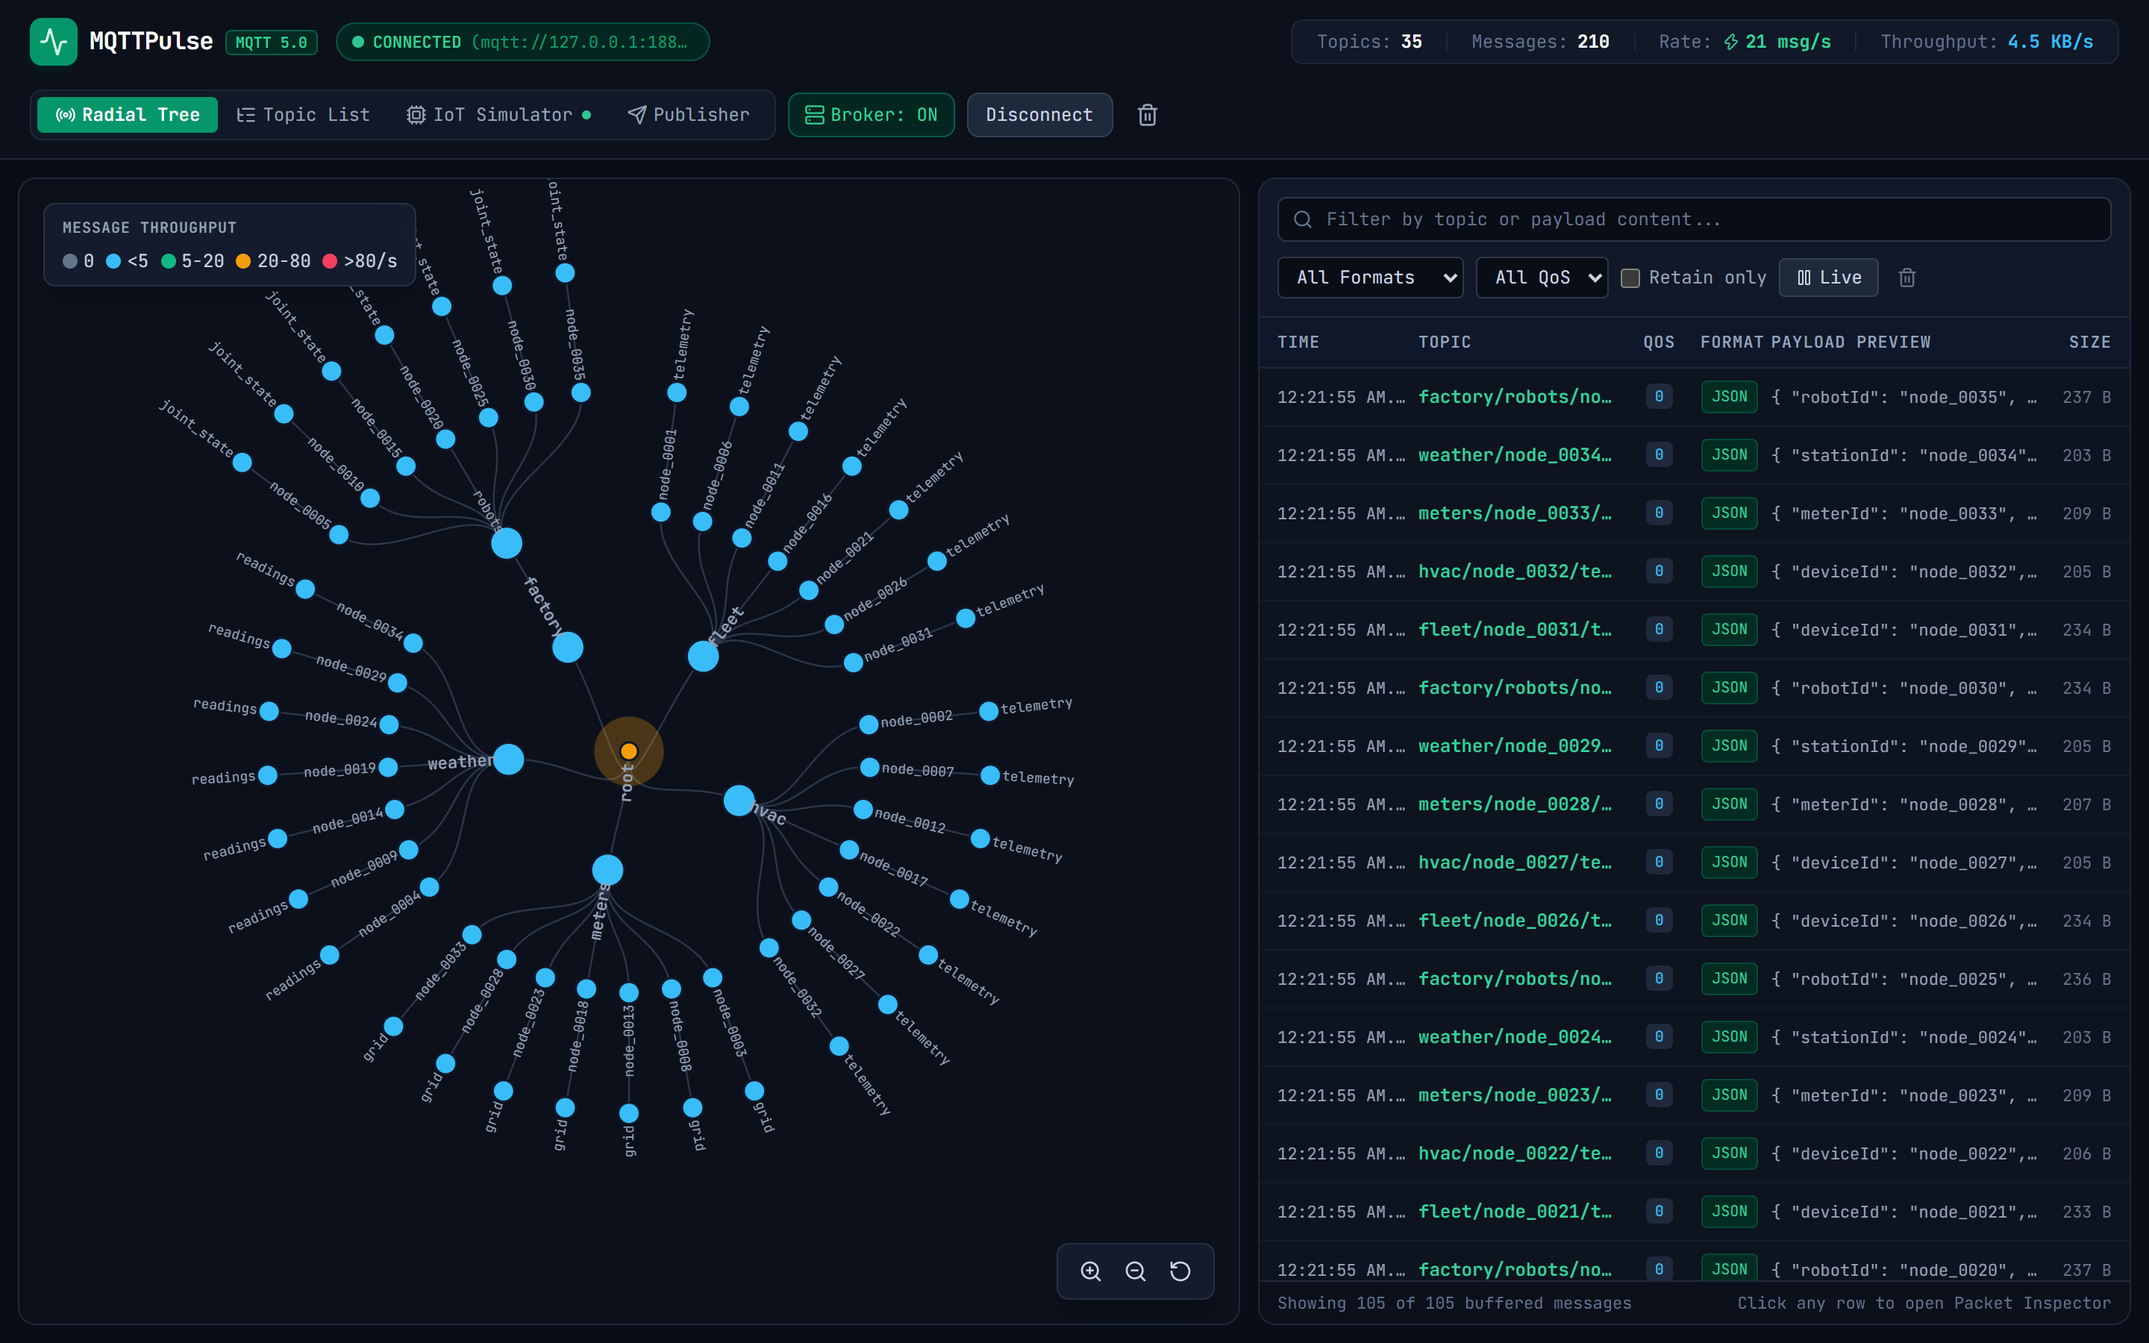
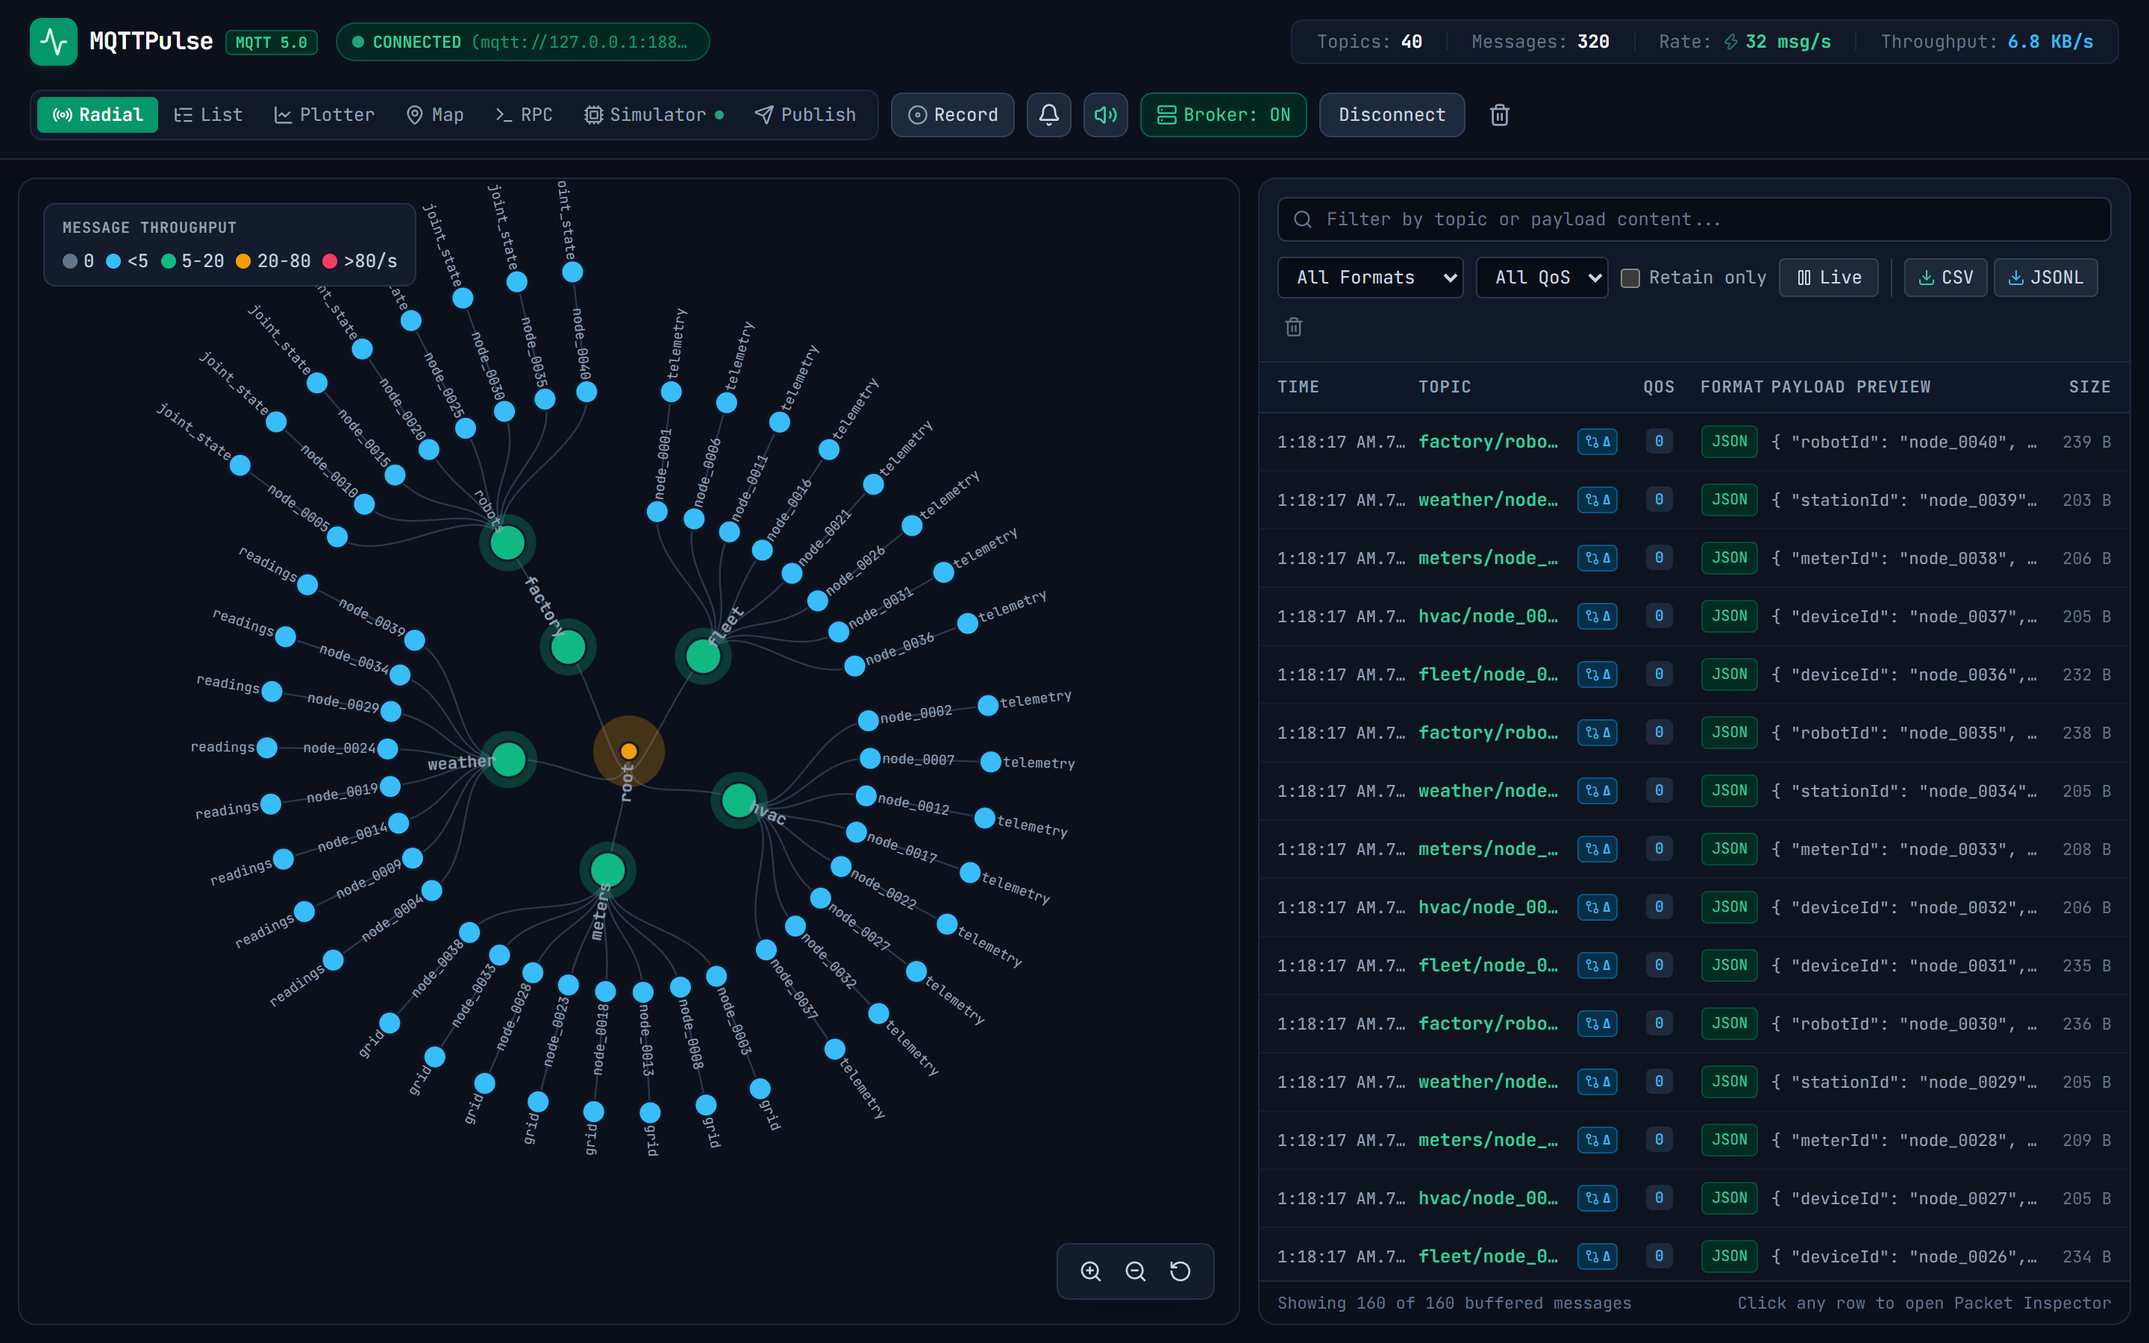
feat(ui): add mobile responsiveness and high-fidelity screenshots with animated demo gif

diff --git a/scripts/capture_assets.js b/scripts/capture_assets.js
@@ -31,9 +31,9 @@ async function run() {
   });
   await state.mqttClient.subscribe('#', 0);
 
-  // Start simulator with 35 devices
+  // Start simulator with 40 devices
   state.simulator.updateConfig({
-    fleetSize: 35,
+    fleetSize: 40,
     profile: 'mixed',
     format: 'json',
     intervalMs: 800
@@ -41,8 +41,8 @@ async function run() {
   state.simulator.start();
 
   console.log('[ASSETS] Simulator emitting live telemetry...');
-  // Let the simulator populate some messages and trie nodes
-  await new Promise((r) => setTimeout(r, 2500));
+  // Let the simulator populate messages, trie nodes, and geo markers
+  await new Promise((r) => setTimeout(r, 3000));
 
   console.log('[ASSETS] Launching Puppeteer...');
   const browser = await puppeteer.launch({
@@ -57,91 +57,95 @@ async function run() {
   // Wait 1.5 seconds for D3 tree to render and telemetry stream to populate
   await new Promise((r) => setTimeout(r, 1500));
 
+  let frameCount = 0;
+  const captureFrames = async (numFrames = 6, intervalMs = 250) => {
+    for (let i = 0; i < numFrames; i++) {
+      const framePath = path.join(framesDir, `frame_${String(frameCount++).padStart(4, '0')}.png`);
+      await page.screenshot({ path: framePath });
+      await new Promise((r) => setTimeout(r, intervalMs));
+    }
+  };
+
+  // Helper to click tab by title/label
+  const clickTab = async (tabName) => {
+    await page.evaluate((name) => {
+      const buttons = Array.from(document.querySelectorAll('header button'));
+      const btn = buttons.find((b) => b.textContent && b.textContent.toLowerCase().includes(name.toLowerCase()));
+      if (btn) btn.click();
+    }, tabName);
+    await new Promise((r) => setTimeout(r, 800));
+  };
+
+  // 1. Screenshot 1: Radial Tree view
   console.log('[ASSETS] Capturing screenshot 1: Radial Tree view...');
   await page.screenshot({ path: path.join(docsImagesDir, 'mqttpulse-1.png') });
+  await captureFrames(8, 200);
 
-  // Record a sequence of frames for GIF
-  console.log('[ASSETS] Recording frames for animated GIF...');
-  for (let i = 0; i < 15; i++) {
-    const framePath = path.join(framesDir, `frame_${String(i).padStart(3, '0')}.png`);
-    await page.screenshot({ path: framePath });
-    await new Promise((r) => setTimeout(r, 200));
-  }
+  // 2. Switch to Plotter tab
+  console.log('[ASSETS] Switching to Telemetry Plotter tab...');
+  await clickTab('Plotter');
+  await new Promise((r) => setTimeout(r, 1200));
+  console.log('[ASSETS] Capturing screenshot 2: Live Telemetry Plotter...');
+  await page.screenshot({ path: path.join(docsImagesDir, 'mqttpulse-2.png') });
+  await captureFrames(8, 200);
 
-  // Click on the first message row to open Packet Inspector drawer
-  console.log('[ASSETS] Opening Packet Inspector...');
+  // 3. Switch to Map tab
+  console.log('[ASSETS] Switching to Fleet Geolocation Map tab...');
+  await clickTab('Map');
+  await new Promise((r) => setTimeout(r, 1000));
+  console.log('[ASSETS] Capturing screenshot 3: Fleet Geolocation Map...');
+  await page.screenshot({ path: path.join(docsImagesDir, 'mqttpulse-3.png') });
+  await captureFrames(8, 200);
+
+  // 4. Click a message row in the table to open Packet Inspector drawer with Diff
+  console.log('[ASSETS] Switching back to Radial and opening Packet Inspector...');
+  await clickTab('Radial');
   const rows = await page.$$('.cursor-pointer');
   if (rows.length > 5) {
-    // Click a table row
     await rows[rows.length - 2].click();
     await new Promise((r) => setTimeout(r, 800));
 
-    // Click Hex / ASCII Dump tab inside inspector
-    const hexTab = await page.evaluate(() => {
+    // Click Payload Diff tab inside inspector
+    await page.evaluate(() => {
       const buttons = Array.from(document.querySelectorAll('button'));
-      const btn = buttons.find((b) => b.textContent && b.textContent.includes('Hex / ASCII'));
-      if (btn) {
-        btn.click();
-        return true;
-      }
-      return false;
+      const btn = buttons.find((b) => b.textContent && b.textContent.includes('Diff'));
+      if (btn) btn.click();
     });
-
     await new Promise((r) => setTimeout(r, 600));
-    console.log('[ASSETS] Capturing screenshot 2: Packet Inspector Hex Dump...');
-    await page.screenshot({ path: path.join(docsImagesDir, 'mqttpulse-2.png') });
 
-    for (let i = 15; i < 22; i++) {
-      const framePath = path.join(framesDir, `frame_${String(i).padStart(3, '0')}.png`);
-      await page.screenshot({ path: framePath });
-      await new Promise((r) => setTimeout(r, 200));
-    }
+    console.log('[ASSETS] Capturing screenshot 4: Packet Inspector Payload Diff...');
+    await page.screenshot({ path: path.join(docsImagesDir, 'mqttpulse-4.png') });
+    await captureFrames(6, 250);
+
+    // Close inspector
+    await page.evaluate(() => {
+      const closeBtn = document.querySelector('button[title*="Close"]');
+      if (closeBtn) closeBtn.click();
+    });
+    await new Promise((r) => setTimeout(r, 500));
   }
 
-  // Switch to IoT Simulator tab
-  console.log('[ASSETS] Switching to IoT Simulator tab...');
-  await page.evaluate(() => {
-    const buttons = Array.from(document.querySelectorAll('button'));
-    const btn = buttons.find((b) => b.textContent && b.textContent.includes('IoT Simulator'));
-    if (btn) btn.click();
-  });
+  // 5. Switch to RPC tab
+  console.log('[ASSETS] Switching to RPC tab...');
+  await clickTab('RPC');
   await new Promise((r) => setTimeout(r, 800));
-
-  console.log('[ASSETS] Capturing screenshot 3: IoT Fleet Simulator & Chaos panel...');
-  await page.screenshot({ path: path.join(docsImagesDir, 'mqttpulse-3.png') });
-
-  for (let i = 22; i < 30; i++) {
-    const framePath = path.join(framesDir, `frame_${String(i).padStart(3, '0')}.png`);
-    await page.screenshot({ path: framePath });
-    await new Promise((r) => setTimeout(r, 200));
-  }
-
-  // Switch to Topic List indented view
-  console.log('[ASSETS] Switching to Topic List tab...');
-  await page.evaluate(() => {
-    const buttons = Array.from(document.querySelectorAll('button'));
-    const btn = buttons.find((b) => b.textContent && b.textContent.includes('Topic List'));
-    if (btn) btn.click();
-  });
-  await new Promise((r) => setTimeout(r, 800));
-
-  console.log('[ASSETS] Capturing screenshot 4: Topic List view...');
-  await page.screenshot({ path: path.join(docsImagesDir, 'mqttpulse-4.png') });
+  console.log('[ASSETS] Capturing screenshot 5: MQTT 5.0 RPC Console...');
+  await page.screenshot({ path: path.join(docsImagesDir, 'mqttpulse-5.png') });
+  await captureFrames(6, 250);
 
   await browser.close();
   await server.stop();
 
-  console.log('[ASSETS] Compiling animated demo GIF with ffmpeg...');
+  console.log(`[ASSETS] Compiling animated demo GIF from ${frameCount} frames with ffmpeg...`);
   const gifPath = path.join(docsImagesDir, 'mqttpulse_demo.gif');
   try {
-    // Generate palette and high quality gif with palettegen and paletteuse
     const palettePath = path.join(framesDir, 'palette.png');
-    execSync(`ffmpeg -y -i "${framesDir}/frame_%03d.png" -vf "fps=6,scale=960:-1:flags=lanczos,palettegen" "${palettePath}"`, { stdio: 'inherit' });
-    execSync(`ffmpeg -y -i "${framesDir}/frame_%03d.png" -i "${palettePath}" -lavfi "fps=6,scale=960:-1:flags=lanczos [x]; [x][1:v] paletteuse" "${gifPath}"`, { stdio: 'inherit' });
+    execSync(`ffmpeg -y -i "${framesDir}/frame_%04d.png" -vf "fps=5,scale=960:-1:flags=lanczos,palettegen" "${palettePath}"`, { stdio: 'inherit' });
+    execSync(`ffmpeg -y -i "${framesDir}/frame_%04d.png" -i "${palettePath}" -lavfi "fps=5,scale=960:-1:flags=lanczos [x]; [x][1:v] paletteuse" "${gifPath}"`, { stdio: 'inherit' });
     console.log(`[ASSETS] Successfully generated ${gifPath}`);
   } catch (err) {
-    console.warn('[ASSETS WARN] Could not run 2-pass palette, running simple fallback ffmpeg:', err.message);
-    execSync(`ffmpeg -y -i "${framesDir}/frame_%03d.png" -vf "fps=5,scale=960:-1:flags=lanczos" "${gifPath}"`, { stdio: 'inherit' });
+    console.warn('[ASSETS WARN] Running fallback ffmpeg:', err.message);
+    execSync(`ffmpeg -y -i "${framesDir}/frame_%04d.png" -vf "fps=5,scale=960:-1:flags=lanczos" "${gifPath}"`, { stdio: 'inherit' });
   }
 
   // Clean temp frames

diff --git a/web/src/components/MessageStreamTable.tsx b/web/src/components/MessageStreamTable.tsx
@@ -182,12 +182,12 @@ export const MessageStreamTable: React.FC<MessageStreamTableProps> = ({
 
       {/* Table Header */}
       <div className="grid grid-cols-12 gap-2 px-3 py-2 border-b border-slate-800 bg-[#0f172a] text-[11px] font-semibold text-slate-400 uppercase tracking-wider select-none">
-        <div className="col-span-2">Time</div>
-        <div className="col-span-3">Topic</div>
-        <div className="col-span-1 text-center">QoS</div>
-        <div className="col-span-1 text-center">Format</div>
-        <div className="col-span-4">Payload Preview</div>
-        <div className="col-span-1 text-right">Size</div>
+        <div className="col-span-3 sm:col-span-2">Time</div>
+        <div className="col-span-6 sm:col-span-3">Topic</div>
+        <div className="hidden sm:block sm:col-span-1 text-center">QoS</div>
+        <div className="col-span-3 sm:col-span-1 text-center">Format</div>
+        <div className="hidden sm:block sm:col-span-4">Payload Preview</div>
+        <div className="hidden sm:block sm:col-span-1 text-right">Size</div>
       </div>
 
       {/* Messages Scroll Area */}
@@ -219,12 +219,12 @@ export const MessageStreamTable: React.FC<MessageStreamTableProps> = ({
                 }`}
               >
                 {/* Time */}
-                <div className="col-span-2 text-slate-400 text-[11px] truncate">
+                <div className="col-span-3 sm:col-span-2 text-slate-400 text-[11px] truncate">
                   {new Date(msg.timestamp).toLocaleTimeString()}.{String(msg.timestamp % 1000).padStart(3, '0')}
                 </div>
 
                 {/* Topic */}
-                <div className="col-span-3 font-semibold text-emerald-400 truncate flex items-center gap-1.5" title={msg.topic}>
+                <div className="col-span-6 sm:col-span-3 font-semibold text-emerald-400 truncate flex items-center gap-1.5" title={msg.topic}>
                   {msg.retain && (
                     <span className="w-1.5 h-1.5 rounded-full bg-amber-400 flex-shrink-0" title="Retained message" />
                   )}
@@ -244,24 +244,24 @@ export const MessageStreamTable: React.FC<MessageStreamTableProps> = ({
                 </div>
 
                 {/* QoS */}
-                <div className="col-span-1 text-center">
+                <div className="hidden sm:block sm:col-span-1 text-center">
                   <span className="px-1.5 py-0.5 rounded text-[10px] bg-slate-800 text-sky-400 font-medium">
                     {msg.qos}
                   </span>
                 </div>
 
                 {/* Format */}
-                <div className="col-span-1 text-center flex justify-center">
+                <div className="col-span-3 sm:col-span-1 text-center flex justify-center">
                   {getFormatBadge(msg.decoded.format)}
                 </div>
 
                 {/* Payload snippet */}
-                <div className="col-span-4 text-slate-400 text-[11px] truncate" title={snippet}>
+                <div className="hidden sm:block sm:col-span-4 text-slate-400 text-[11px] truncate" title={snippet}>
                   {snippet}
                 </div>
 
                 {/* Size */}
-                <div className="col-span-1 text-right text-slate-500 text-[11px]">
+                <div className="hidden sm:block sm:col-span-1 text-right text-slate-500 text-[11px]">
                   {msg.decoded.byteLength} B
                 </div>
               </div>

diff --git a/web/src/App.tsx b/web/src/App.tsx
@@ -56,6 +56,7 @@ export function App() {
   } = useMqttStream();
 
   const [activeView, setActiveView] = useState<MainViewType>('radial');
+  const [mobileTab, setMobileTab] = useState<'view' | 'stream'>('view');
   const [isConnectModalOpen, setIsConnectModalOpen] = useState(false);
   const [isRulesModalOpen, setIsRulesModalOpen] = useState(false);
 
@@ -93,10 +94,36 @@ export function App() {
         onToggleMute={toggleMute}
       />
 
+      {/* Mobile View Switcher (Only visible on screens < md) */}
+      <div className="md:hidden flex items-center bg-[#0d131f] border-b border-slate-800 px-3 py-1.5 gap-2 text-xs font-mono select-none">
+        <button
+          onClick={() => setMobileTab('view')}
+          className={`flex-1 py-1.5 px-3 rounded-md transition font-medium flex items-center justify-center gap-1.5 ${
+            mobileTab === 'view'
+              ? 'bg-emerald-600 text-white shadow-sm'
+              : 'text-slate-400 hover:text-slate-200 bg-slate-900 border border-slate-800'
+          }`}
+        >
+          <span>Visualizer</span>
+          <span className="text-[10px] px-1.5 py-0.2 rounded bg-black/30 uppercase font-semibold">{activeView}</span>
+        </button>
+        <button
+          onClick={() => setMobileTab('stream')}
+          className={`flex-1 py-1.5 px-3 rounded-md transition font-medium flex items-center justify-center gap-1.5 ${
+            mobileTab === 'stream'
+              ? 'bg-emerald-600 text-white shadow-sm'
+              : 'text-slate-400 hover:text-slate-200 bg-slate-900 border border-slate-800'
+          }`}
+        >
+          <span>Message Stream</span>
+          <span className="text-[10px] px-1.5 py-0.2 rounded bg-black/30 font-bold">{messages.length}</span>
+        </button>
+      </div>
+
       {/* Main Workspace */}
-      <div className="flex-1 flex flex-col md:flex-row overflow-hidden p-3 gap-3">
+      <div className="flex-1 flex flex-col md:flex-row overflow-hidden p-2 sm:p-3 gap-2 sm:gap-3">
         {/* Left / Primary Interactive View */}
-        <div className="w-full md:w-7/12 h-1/2 md:h-full flex flex-col min-w-0">
+        <div className={`w-full md:w-7/12 h-full flex flex-col min-w-0 ${mobileTab === 'view' ? 'flex' : 'hidden md:flex'}`}>
           {activeView === 'radial' && (
             <TopicTreeRadial
               data={treeData}
@@ -151,7 +178,7 @@ export function App() {
         </div>
 
         {/* Right / Split Message Stream & Deep Packet Inspector */}
-        <div className="w-full md:w-5/12 h-1/2 md:h-full flex flex-col relative min-w-0">
+        <div className={`w-full md:w-5/12 h-full flex flex-col relative min-w-0 ${mobileTab === 'stream' ? 'flex' : 'hidden md:flex'}`}>
           <MessageStreamTable
             messages={messages}
             onSelectMessage={handleSelectMessage}

diff --git a/README.md b/README.md
@@ -74,19 +74,23 @@ MQTTPulse packages these functions into a single binary and web cockpit. It runs
 
 ### D3.js Radial Topic Tree
 <img src="docs/images/mqttpulse-1.png" alt="Radial Topic Tree" width="900" />
-<p><em>Circular radial tree visualization with nodes colored by rolling message rate (msgs/sec) and live message telemetry table.</em></p>
+<p><em>Circular radial tree visualization with nodes colored by rolling message rate (msgs/sec) and live virtualized message stream.</em></p>
 
-### Deep Packet Inspector
-<img src="docs/images/mqttpulse-2.png" alt="Packet Inspector" width="900" />
-<p><em>MQTT 5.0 header metadata inspector with User Properties table and hexadecimal/ASCII byte dump.</em></p>
+### Live Telemetry Plotter
+<img src="docs/images/mqttpulse-2.png" alt="Live Telemetry Plotter" width="900" />
+<p><em>Continuous 60 FPS HTML5 Canvas time-series plotter tracking numerical sensor values, min/max/average metrics, and rolling window buffers.</em></p>
 
-### IoT Fleet Simulator & Network Chaos Controls
-<img src="docs/images/mqttpulse-3.png" alt="IoT Simulator Controls" width="900" />
-<p><em>Configuration cockpit managing synthetic sensor devices, publication intervals, latency jitter, and packet drop probabilities.</em></p>
+### Fleet Geolocation Map View
+<img src="docs/images/mqttpulse-3.png" alt="Fleet Geolocation Map" width="900" />
+<p><em>Vector-rendered GPS map tracking simulated and physical mobile IoT devices with heading direction, speed in km/h, and status indicators.</em></p>
 
-### Collapsible Topic Hierarchy List
-<img src="docs/images/mqttpulse-4.png" alt="Topic List View" width="900" />
-<p><em>Indented topic tree showing subtree message counts, cumulative byte size, and rolling throughput rates per branch.</em></p>
+### Deep Packet Inspector & Payload Diffing
+<img src="docs/images/mqttpulse-4.png" alt="Packet Inspector" width="900" />
+<p><em>Structural delta comparison (+, ~, -) between consecutive packets, schema drift anomaly diagnostics, MQTT 5.0 User Properties, and 16-byte aligned Hex dump.</em></p>
+
+### Bidirectional MQTT 5.0 RPC Console
+<img src="docs/images/mqttpulse-5.png" alt="MQTT 5.0 RPC Console" width="900" />
+<p><em>Request-response execution engine utilizing responseTopic and correlationData with sub-millisecond round-trip time latency measurement.</em></p>
 
 </div>
 
